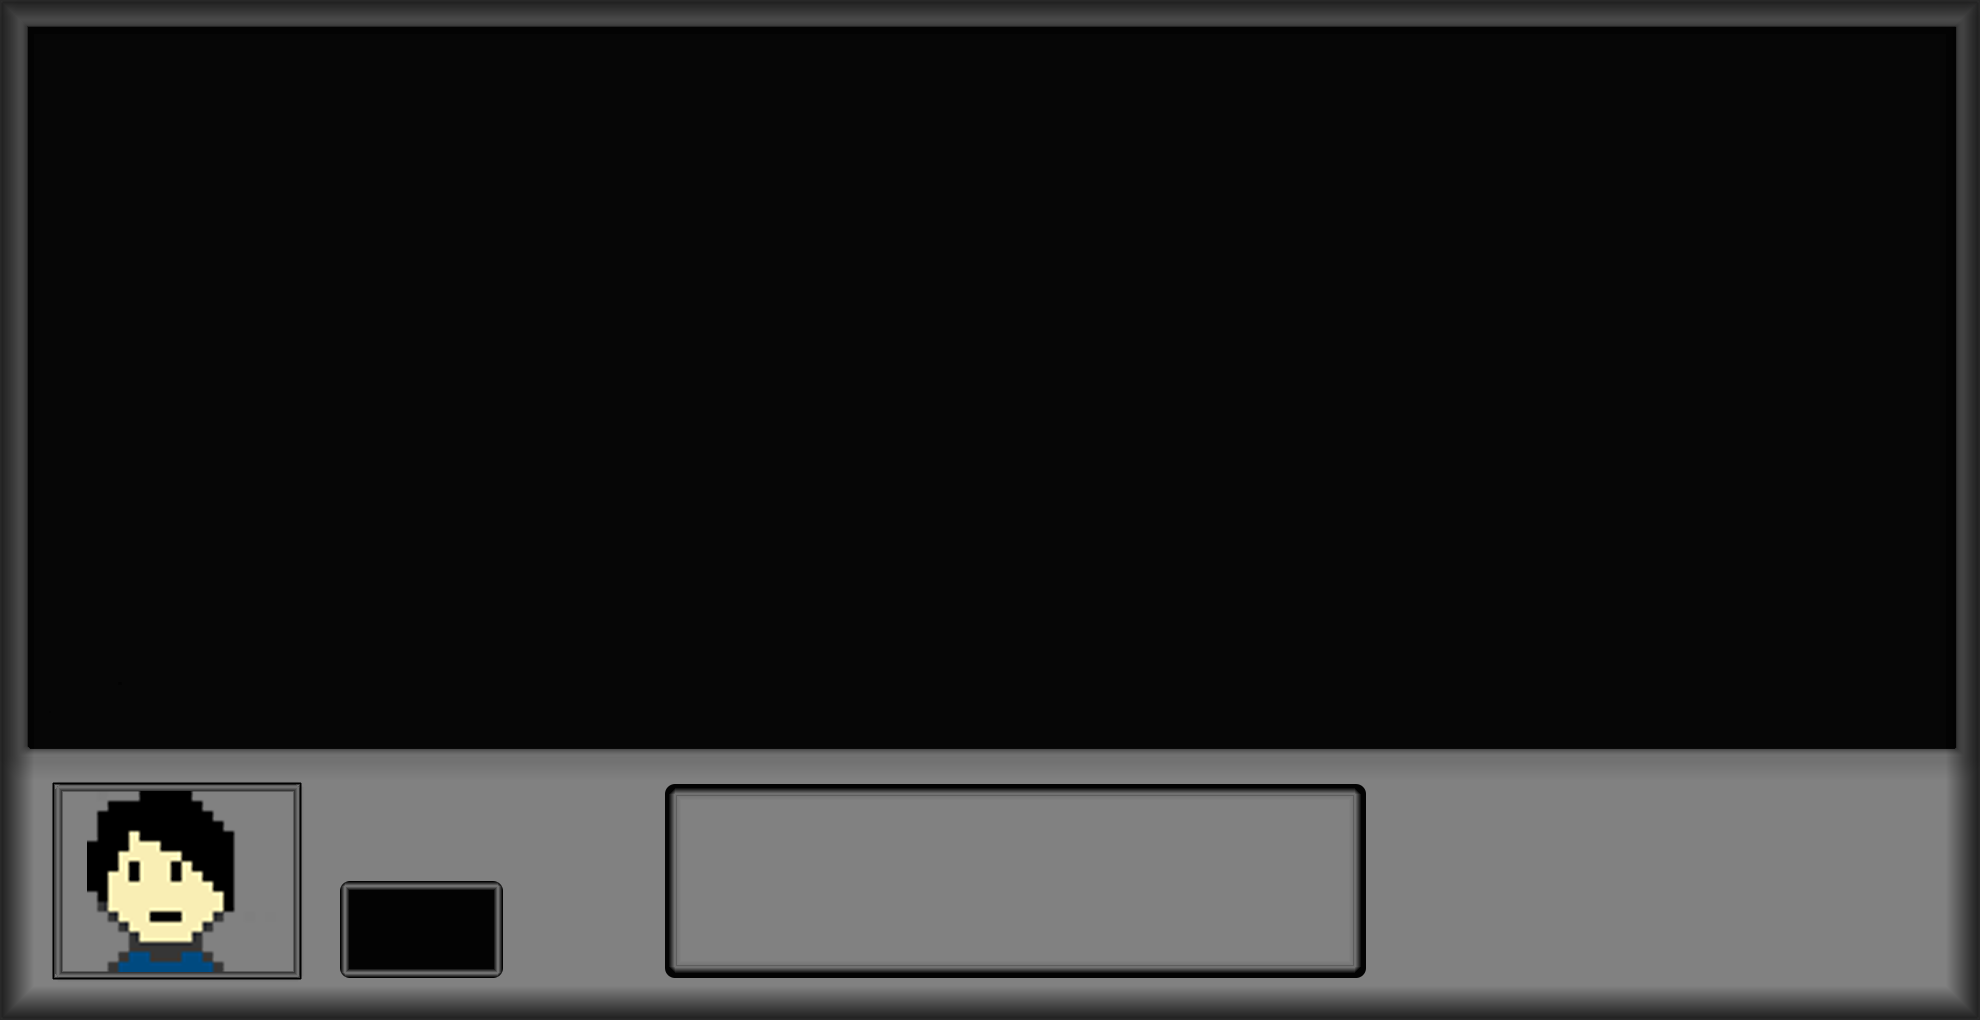
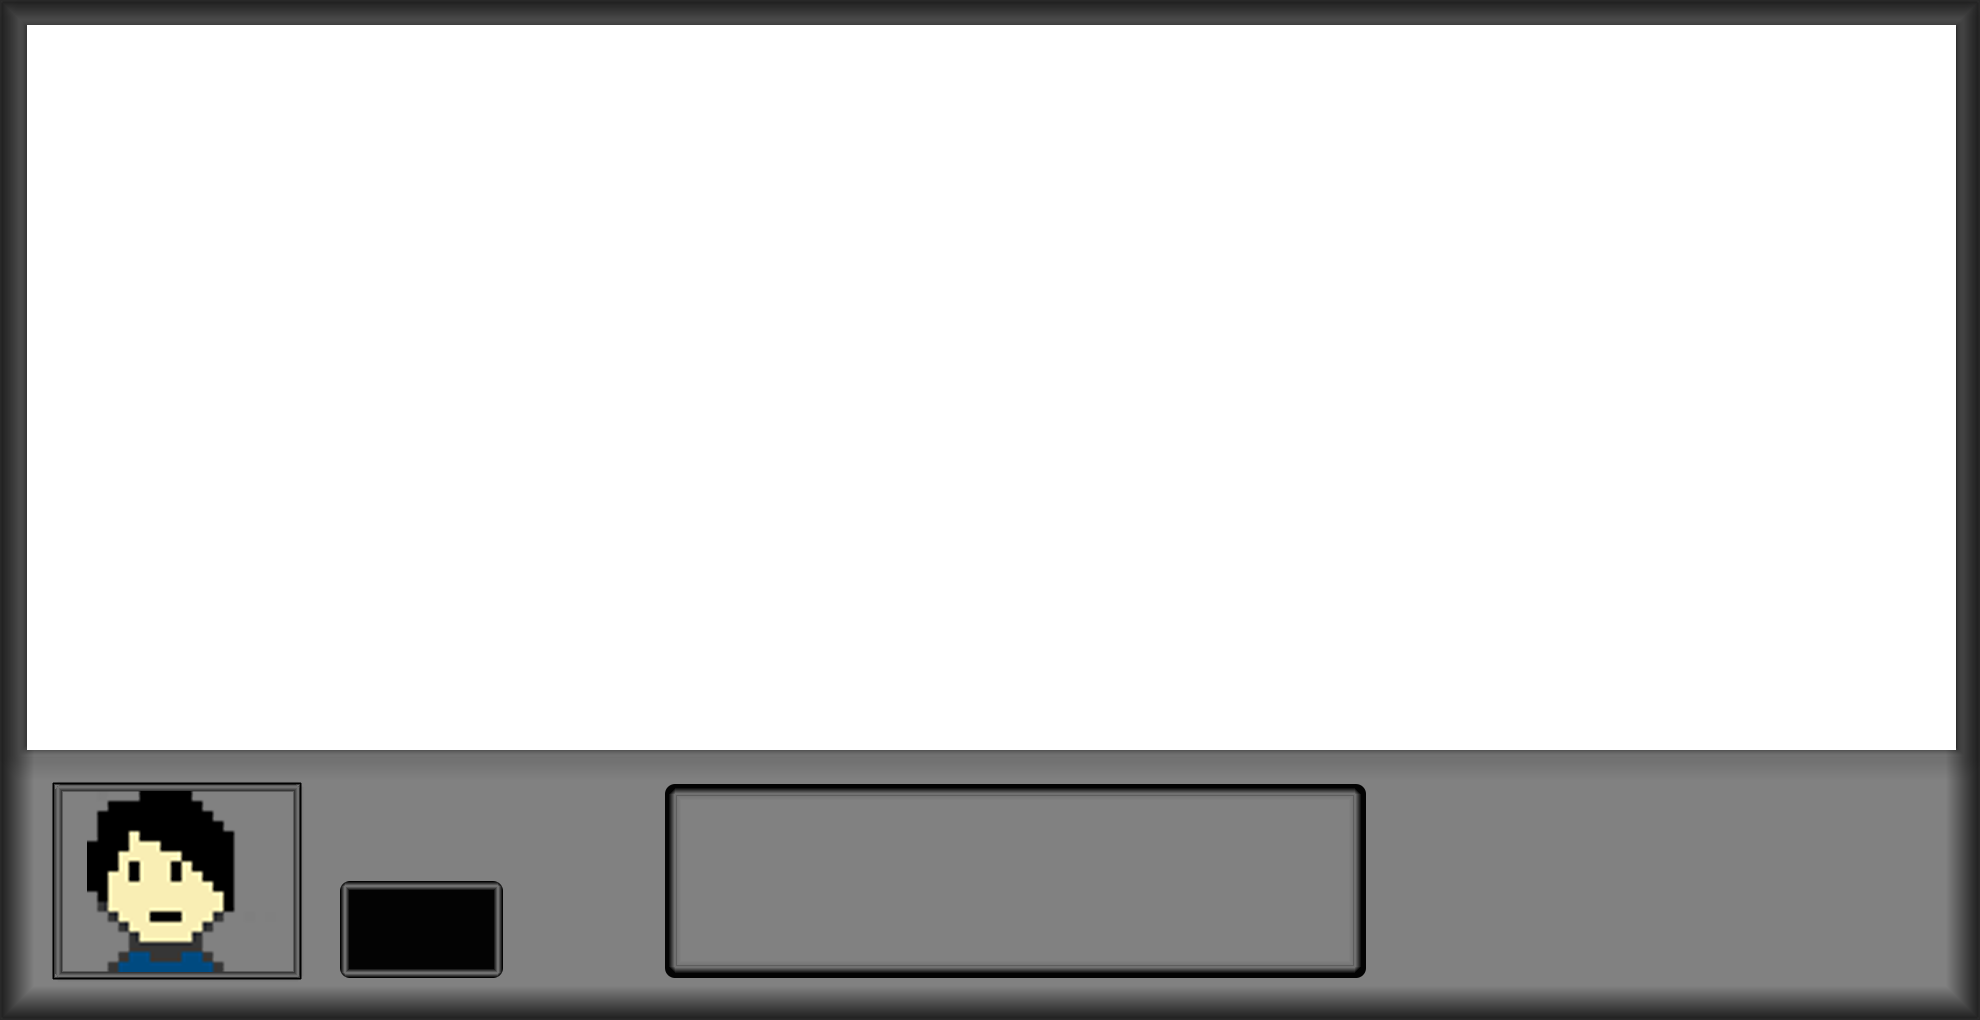
-basic ui transparent -health pots consumable -added boost variable to player

diff --git a/As Far as the Light Reaches/Game1.cs b/As Far as the Light Reaches/Game1.cs
@@ -28,6 +28,9 @@ namespace As_Far_as_the_Light_Reaches
         Texture2D title;
         Texture2D basicUI;
         Texture2D battleUI;
+        SpriteFont font;
+        int potsAmount = 10;
+
 
         // Protag Textures 
         Texture2D protagDownStill;
@@ -116,12 +119,15 @@ namespace As_Far_as_the_Light_Reaches
         enum GameState { Menu, Walk, Combat, Over, Pause, Item, Stats};
         GameState curState;
 
+
         //Keyboard States
         KeyboardState kbState;
         KeyboardState prevState = Keyboard.GetState();
 
+
         //Bool variables
         bool attackState;       // True = attacking. False = blocking.
+
 
         //INT VARIABLES
         //Attributes to resize window
@@ -130,16 +136,15 @@ namespace As_Far_as_the_Light_Reaches
 
         int level;  // this variable tells us which data to load. (Switch statement)
 
+
         //OBJECTS
-        //Mouse object
         MouseState m = Mouse.GetState();
-        Player player = new Player(20, 20, 4, 12);
+        Player player = new Player(20, 20, 4, 12, 0);
         Enemy curEnemy; //This object will be the enemy object that we fill with whatever enemy the player intersects with.
         Random rnd = new Random();
 
         //test enemy
         Enemy Testgoon;
-
 
         public Game1()
         {
@@ -205,7 +210,9 @@ namespace As_Far_as_the_Light_Reaches
             itemsMenu = Content.Load<Texture2D>("UI\\Items Menu.png");  // Loading in the items menu
             title = Content.Load <Texture2D>("UI\\Title Screen.png");   // Loading in title screen
             basicUI = Content.Load<Texture2D>("UI\\Basic UI.png");      // Loading in basic UI
-            battleUI = Content.Load<Texture2D>("UI\\Battle UI.png");    //Loading in the battle UI.
+            battleUI = Content.Load<Texture2D>("UI\\Battle UI.png");    // Loading in the battle UI
+            font = Content.Load<SpriteFont>("UI\\Font1");           // Loading in font for stats
+
 
             //Arrow keys
             aR = Content.Load<Texture2D>("UI\\ArrowKey\\Right.png");
@@ -285,6 +292,8 @@ namespace As_Far_as_the_Light_Reaches
 
             //Gets current state of mouse
             MouseState m = Mouse.GetState();
+
+            //Keyboard states
             prevState = kbState;
             kbState = Keyboard.GetState();
 
@@ -365,9 +374,7 @@ namespace As_Far_as_the_Light_Reaches
                         Direction = Facing.Right;
                         Moving = Motion.WalkRight;
                     }
-
-
-
+                    
                     break;
 
                 //When we are in combat, we need to get the number of arrows to spawn.
@@ -413,6 +420,11 @@ namespace As_Far_as_the_Light_Reaches
                     if (SingleKeyPress(Keys.I))     //If 'i' is pressed, switch the gamestate to Items
                     {
                         curState = GameState.Item;
+
+                        if (SingleKeyPress(Keys.H))
+                        {
+                            player.CurHealth += 10;
+                        }
                     }
                     else if (SingleKeyPress(Keys.U))    //If 'u' is pressed, switch the gamState to Stats
                     {
@@ -489,9 +501,13 @@ namespace As_Far_as_the_Light_Reaches
                 case GameState.Walk:
 
                     center = new Rectangle(GraphicsDevice.Viewport.Width / 2 - 150, GraphicsDevice.Viewport.Height / 2 - 300, 300, 300);
-
+                    
                     //Draw basic UI
-                   // spriteBatch.Draw(basicUI, pauseVec, Color.White);
+                    spriteBatch.Draw(basicUI, new Rectangle(0,0,GraphicsDevice.Viewport.Width,GraphicsDevice.Viewport.Height), Color.White);
+
+                    //Draw player hp
+                    spriteBatch.DrawString(font, "HP: " + player.CurHealth, new Vector2(180, 900), Color.White);
+
 
                     //draw map
                     var viewMatrix = cam.GrabMatrix();
@@ -556,7 +572,7 @@ namespace As_Far_as_the_Light_Reaches
 
                 //Draw the GUI in combat
                 case GameState.Combat:
-                    spriteBatch.Draw(battleUI,new Rectangle(0,0,winX,winY),Color.White);    //Draw the battle UI
+                    spriteBatch.Draw(battleUI, new Rectangle(0,0,winX,winY), Color.White);    //Draw the battle UI
 
                     //Draw each Arrow
                     foreach (Texture2D arrow in curArrows)
@@ -576,11 +592,24 @@ namespace As_Far_as_the_Light_Reaches
                     break;
 
                 case GameState.Item:
-                    spriteBatch.Draw(itemsMenu, pauseVec, Color.White); //Draw items menu   
+                    spriteBatch.Draw(itemsMenu, pauseVec, Color.White); //Draw items menu
+                    if (SingleKeyPress(Keys.H))
+                    {
+                        potsAmount--;
+                        if (potsAmount <= 0)
+                        {
+                            potsAmount = 0;
+                        }
+                    }
+                    spriteBatch.DrawString(font, "x" + potsAmount, new Vector2(800, 300), Color.White);
                     break;
 
                 case GameState.Stats:
                     spriteBatch.Draw(statsMenu, pauseVec, Color.White); //Draw the stats menu.
+                    spriteBatch.DrawString(font, "" + player.Armor, new Vector2(580, 165), Color.White);
+                    spriteBatch.DrawString(font, "" + player.Damage, new Vector2(580, 400), Color.White);
+                    spriteBatch.DrawString(font, "" + player.Boost, new Vector2(580, 635), Color.White);
+                    spriteBatch.DrawString(font, "", new Vector2(580, 235), Color.White);
                     break;
 
                 default: break;

diff --git a/As Far as the Light Reaches/Player.cs b/As Far as the Light Reaches/Player.cs
@@ -23,6 +23,7 @@ namespace As_Far_as_the_Light_Reaches
         private int curHealth;
         private int damage;
         private int armor;
+        private int boost;
 
         //Properties
         public int X
@@ -61,6 +62,11 @@ namespace As_Far_as_the_Light_Reaches
 
         }
 
+        public int Boost
+        {
+            get { return boost; }
+            set { boost = value; }
+        }
         public Rectangle PlayerRec
         {
             get { return playerRec; }
@@ -88,14 +94,14 @@ namespace As_Far_as_the_Light_Reaches
 
 
         //Constructor
-        public Player(int h, int mh, int d, int a)
+        public Player(int h, int mh, int d, int a, int b)
         {
             //set default stats
             curHealth = h;
             maxHealth = mh;
             damage = d;
             armor = a;
-
+            boost = b;
         }
 
 
